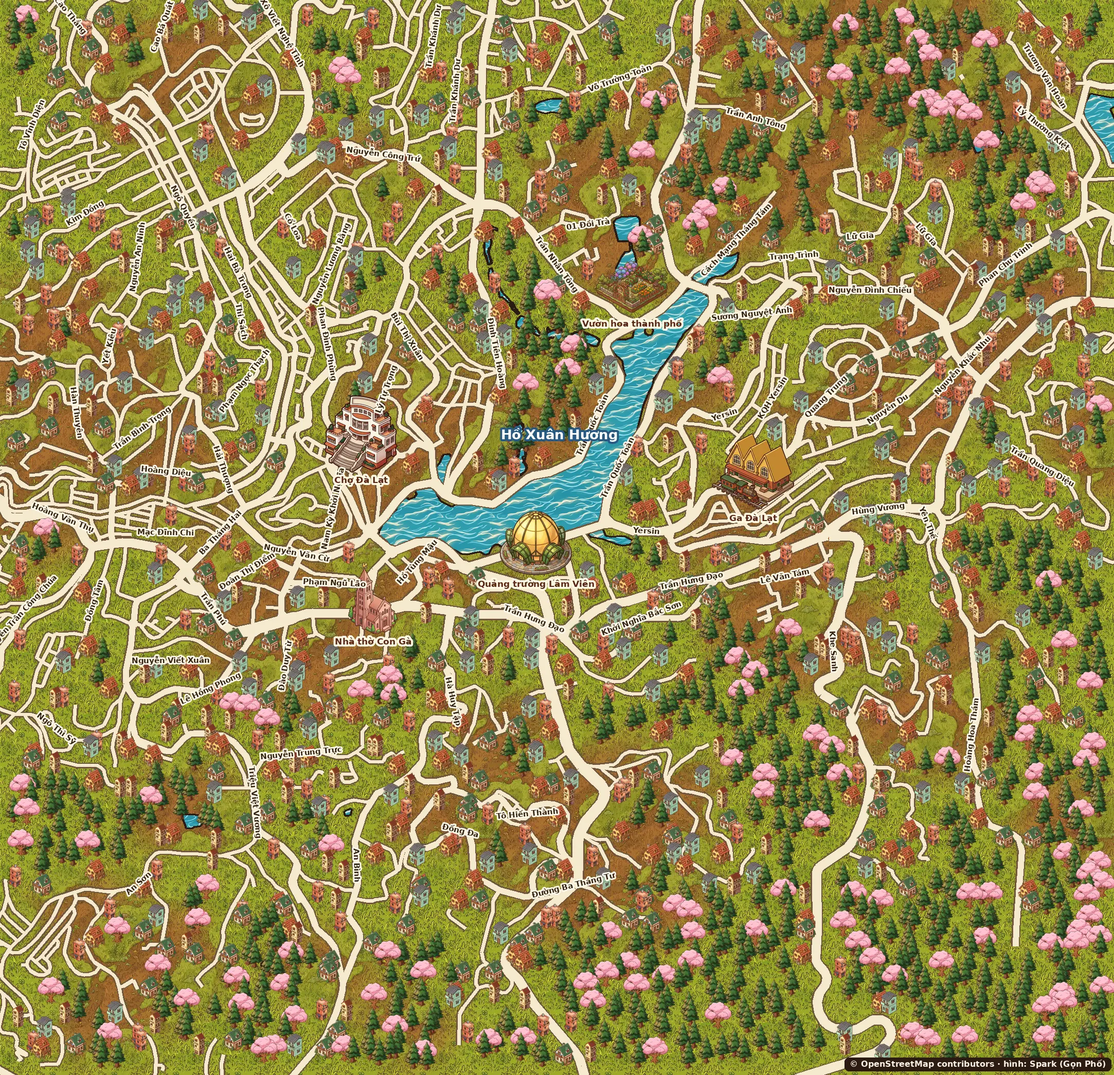
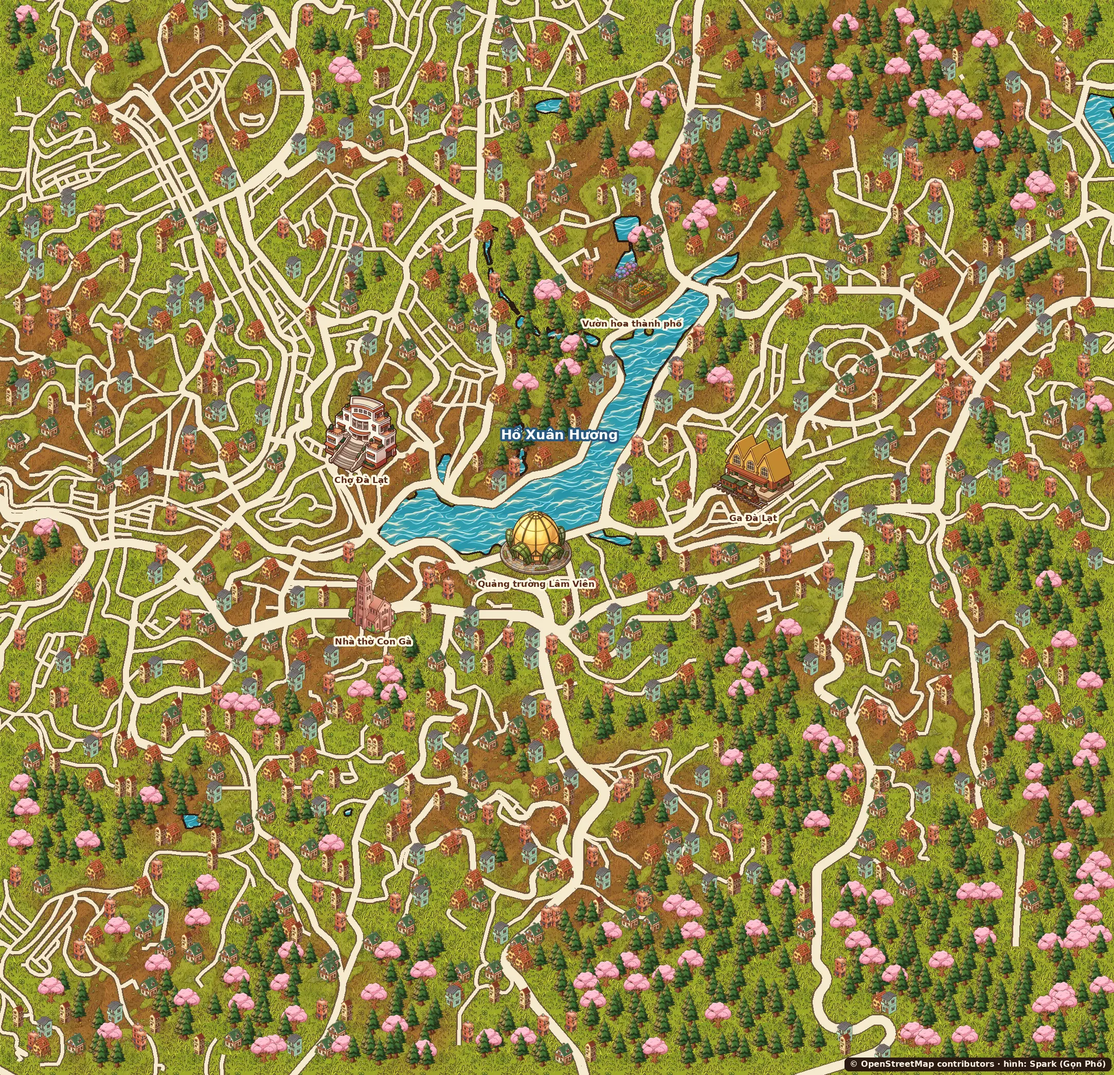
Tên đường chạy uốn theo đường, làm mềm; chữ không đè nhau; chấm quán dày thì tách ra có nét nối
- Bỏ tên đường in cứng trong ảnh nền; trang phố tự ghi tên bằng textPath trên đoạn đường đã làm mềm
- Đường cong gắt không ghi tên; tên mốc trùng hình vẽ sẵn thì bỏ
- Phố ngắn (Tăng Bạt Hổ) phóng gần hơn, chấm quán đè nhau được đẩy ra

Claude-Session: https://claude.ai/code/session_01X21C3vW6w9QSrPJtoigw6e

diff --git a/app.js b/app.js
@@ -103,6 +103,33 @@
     return d;
   }
 
+  // Làm mềm đường (Chaikin 2 lượt) cho chữ chạy uốn êm theo đường, không gãy khúc
+  function smooth(pts, n) {
+    var p = pts;
+    for (var t = 0; t < (n || 2); t++) {
+      if (p.length < 3) return p;
+      var q = [p[0]];
+      for (var i = 0; i < p.length - 1; i++) {
+        var a = p[i], b = p[i + 1];
+        q.push([a[0] * 0.75 + b[0] * 0.25, a[1] * 0.75 + b[1] * 0.25], [a[0] * 0.25 + b[0] * 0.75, a[1] * 0.25 + b[1] * 0.75]);
+      }
+      q.push(p[p.length - 1]);
+      p = q;
+    }
+    return p;
+  }
+  // Độ gắt khúc cong lớn nhất (độ) trên đoạn giữa đường — cong quá thì không ghi tên
+  function maxTurn(pts) {
+    var m = 0;
+    for (var i = 1; i < pts.length - 1; i++) {
+      var a1 = Math.atan2(pts[i][1] - pts[i - 1][1], pts[i][0] - pts[i - 1][0]);
+      var a2 = Math.atan2(pts[i + 1][1] - pts[i][1], pts[i + 1][0] - pts[i][0]);
+      var d = Math.abs(a2 - a1) * 180 / Math.PI; if (d > 180) d = 360 - d;
+      m = Math.max(m, d);
+    }
+    return m;
+  }
+
   function meters(pts) {
     var m = 0;
     for (var k = 1; k < pts.length; k++) {
@@ -213,11 +240,13 @@
     (data.ten_duong || []).forEach(function (r, i) {
       if (meters(r.pts) < minLen[r.loai]) return;
       var id = 'rd' + i;
-      var pe0 = el('path', { id: id, d: lineOf(r.pts) });
+      var sm = smooth(r.pts, 3);
+      if (maxTurn(smooth(r.pts, 1)) > 50) return;          // đường gãy gắt: bỏ tên cho khỏi rối
+      var pe0 = el('path', { id: id, d: lineOf(sm) });
       defs.appendChild(pe0);
       var L0 = pe0.getTotalLength();
       if (pe0.getPointAtLength(L0 * 0.6).x < pe0.getPointAtLength(L0 * 0.4).x) {
-        pe0.setAttribute('d', lineOf(r.pts.slice().reverse()));  // chữ chạy trái sang phải, không lộn ngược
+        pe0.setAttribute('d', lineOf(sm.slice().reverse()));  // chữ chạy trái sang phải, không lộn ngược
       }
       var t = el('text', { 'class': 'lbl road-name r' + r.loai, dy: '0.35em', hidden: '' });
       var tp = el('textPath', { href: '#' + id, startOffset: '50%' }, r.ten);
@@ -610,7 +639,7 @@
         x0 = Math.min(x0, nb[0]); x1 = Math.max(x1, nb[0]); y0 = Math.min(y0, nb[1] - 40); y1 = Math.max(y1, nb[1] + 30);
       }
       // khung đủ rộng để thấy cả xóm xung quanh (≥ 1,3 km ngang), không quá cao so với bề ngang
-      var pad = 80, w = Math.max(x1 - x0 + pad * 2, 520), h = Math.max(y1 - y0 + pad * 2, w * 1.1);
+      var pad = 80, w = Math.max(x1 - x0 + pad * 2, 300), h = Math.max(y1 - y0 + pad * 2, w * 1.1);
       w = Math.max(w, h * 0.78);
       cx = (x0 + x1) / 2; cy = (y0 + y1) / 2;
       var vx = Math.max(0, Math.min(bd.w - w, cx - w / 2)), vy = Math.max(0, Math.min(bd.h - h, cy - h / 2));
@@ -620,6 +649,12 @@
         '<image href="' + esc(bd.anh) + '" width="' + bd.w + '" height="' + bd.h + '"/>';
       lines.forEach(function (l) { g += '<path d="' + path(l) + '" class="bd-pho-vien" style="stroke-width:' + (16 * k) + '"/>'; });
       lines.forEach(function (l) { g += '<path d="' + path(l) + '" class="bd-pho" style="stroke-width:' + (8 * k) + '"/>'; });
+      var boxes = [];
+      function hit(b) { return boxes.some(function (o) { return b.x1 > o.x0 && b.x0 < o.x1 && b.y1 > o.y0 && b.y0 < o.y1; }); }
+      // hình mốc vẽ sẵn trong ảnh (Chợ, nhà thờ, quảng trường…) và tên của nó chiếm chỗ trước
+      bd.moc.forEach(function (m) { var q = B(m.lon, m.lat); boxes.push({ x0: q[0] - 85, x1: q[0] + 85, y0: q[1] - 115, y1: q[1] + 60 }); });
+      // chấm quán chiếm chỗ trước
+      ph.dia_diem.forEach(function (d) { if (d.vi_tri) { var q = B(d.vi_tri.lon, d.vi_tri.lat); boxes.push({ x0: q[0] - 13 * k, x1: q[0] + 13 * k, y0: q[1] - 13 * k, y1: q[1] + 13 * k }); } });
       // tên mốc thật trong khung (chùa, chợ, dinh, công viên…) để định hướng; tối đa 4 mốc gần phố nhất
       var tenQuan = ph.dia_diem.map(function (d) { return d.ten; }).join('|');
       data.moc.map(function (m) { return { m: m, p: B(m.lon, m.lat) }; })
@@ -628,16 +663,78 @@
         .filter(function (o) {      // bỏ mốc trùng chỗ một quán đã có chấm (vd Dinh III)
           return !ph.dia_diem.some(function (d) { if (!d.vi_tri) return false; var q = B(d.vi_tri.lon, d.vi_tri.lat); return Math.hypot(q[0] - o.p[0], q[1] - o.p[1]) < 25 * k; });
         })
-        .slice(0, 4).forEach(function (o) {
+        .filter(function (o) {      // trùng tên mốc đã vẽ sẵn (vd "Chợ Đà Lạt") thì bỏ
+          return !bd.moc.some(function (m) { return o.m.ten.indexOf(m.ten) >= 0 || m.ten.indexOf(o.m.ten) >= 0; });
+        })
+        .filter(function (o) {      // tên mốc không đè chấm quán, không đè tên mốc khác
+          var tw = o.m.ten.length * 12 * k * 0.56, phai = o.p[0] > vx + w * 0.6;
+          var b = { x0: phai ? o.p[0] - tw - 8 * k : o.p[0] - 5 * k, x1: phai ? o.p[0] + 5 * k : o.p[0] + tw + 8 * k, y0: o.p[1] - 9 * k, y1: o.p[1] + 9 * k };
+          if (hit(b)) return false;
+          boxes.push(b); return true;
+        })
+        .slice(0, 3).forEach(function (o) {
           var phai = o.p[0] > vx + w * 0.6;     // gần mép phải thì viết chữ sang trái
           g += '<circle cx="' + o.p[0].toFixed(1) + '" cy="' + o.p[1].toFixed(1) + '" r="' + (4 * k) + '" class="bd-moc-cham"/>' +
             '<text x="' + (o.p[0] + (phai ? -7 : 7) * k).toFixed(1) + '" y="' + o.p[1].toFixed(1) + '" class="bd-moc" text-anchor="' + (phai ? 'end' : 'start') + '" style="font-size:' + (12 * k) + 'px;stroke-width:' + (4 * k) + 'px">' + esc(o.m.ten) + '</text>';
         });
+      // tên đường chạy uốn theo đường (textPath), chỉ đường đủ dài, không quá cong, không đè nhau
+      var fsz = 12 * k, defs = '', txt = '';
+      (data.ten_duong || []).slice().sort(function (a, b) { return a.loai - b.loai; }).forEach(function (r, ri) {
+        if (r.loai > 4 || /^(Hẻm|Bùng binh|Công trường)/.test(r.ten) || ph.duong.indexOf(r.ten) >= 0) return;   // tên phố đã ghi ở đầu trang
+        var q = r.pts.map(function (z) { return B(z[0], z[1]); });
+        var inside = q.filter(function (z) { return z[0] > vx + 10 && z[0] < vx + w - 10 && z[1] > vy + 10 && z[1] < vy + h - 10; });
+        if (inside.length < 2) return;
+        // cắt đoạn nằm trong khung, làm mềm
+        var seg = [], best = [];
+        q.forEach(function (z) {
+          var ok = z[0] > vx && z[0] < vx + w && z[1] > vy && z[1] < vy + h;
+          if (ok) seg.push(z); else { if (seg.length > best.length) best = seg; seg = []; }
+        });
+        if (seg.length > best.length) best = seg;
+        if (best.length < 2) return;
+        var sm = smooth(best, 3);
+        if (maxTurn(smooth(best, 1)) > 45) return;
+        var L = 0; for (var i = 1; i < sm.length; i++) L += Math.hypot(sm[i][0] - sm[i - 1][0], sm[i][1] - sm[i - 1][1]);
+        var tw = r.ten.length * fsz * 0.56;
+        if (tw > L * 0.8) return;
+        // giữa đoạn
+        var acc = 0, mid = sm[0];
+        for (var j = 1; j < sm.length; j++) { var dl = Math.hypot(sm[j][0] - sm[j - 1][0], sm[j][1] - sm[j - 1][1]); if (acc + dl >= L / 2) { mid = sm[j]; break; } acc += dl; }
+        // khung chữ theo hướng thật của đoạn giữa (không phải hình vuông) để khỏi bỏ sót nhiều tên
+        var ang = Math.atan2(sm[Math.min(sm.length - 1, j + 1)][1] - sm[Math.max(0, j - 1)][1], sm[Math.min(sm.length - 1, j + 1)][0] - sm[Math.max(0, j - 1)][0]);
+        var hx = Math.abs(Math.cos(ang)) * tw / 2 + fsz * 0.6, hy = Math.abs(Math.sin(ang)) * tw / 2 + fsz * 0.6;
+        var bx = { x0: mid[0] - hx, x1: mid[0] + hx, y0: mid[1] - hy, y1: mid[1] + hy };
+        if (hit(bx)) return;
+        boxes.push(bx);
+        if (sm[sm.length - 1][0] < sm[0][0]) sm = sm.slice().reverse();
+        var id = 'bdr' + ri;
+        defs += '<path id="' + id + '" d="' + path(sm) + '"/>';
+        txt += '<text class="bd-ten-duong" style="font-size:' + fsz + 'px;stroke-width:' + (3.5 * k) + 'px" dy="0.35em"><textPath href="#' + id + '" startOffset="50%">' + esc(r.ten) + '</textPath></text>';
+      });
+      g += '<defs>' + defs + '</defs>' + txt;
+      // chấm quán: chấm nào đè nhau thì đẩy dần ra cho tách hẳn, kèm nét nối về đúng chỗ quán
+      var dots = [];
+      ph.dia_diem.forEach(function (d, i) { if (d.vi_tri) { var q = B(d.vi_tri.lon, d.vi_tri.lat); dots.push({ i: i, ox: q[0], oy: q[1], x: q[0], y: q[1] }); } });
+      var R = 12 * k;
+      for (var it = 0; it < 120; it++) {
+        var moved = false;
+        for (var a1 = 0; a1 < dots.length; a1++) for (var b1 = a1 + 1; b1 < dots.length; b1++) {
+          var A = dots[a1], Bd = dots[b1], dx = Bd.x - A.x, dy = Bd.y - A.y, dd = Math.hypot(dx, dy);
+          if (dd < R * 2.15) {
+            if (dd < 0.01) { dx = Math.cos(b1); dy = Math.sin(b1); dd = 1; }
+            var push = (R * 2.15 - dd) / 2;
+            A.x -= dx / dd * push; A.y -= dy / dd * push; Bd.x += dx / dd * push; Bd.y += dy / dd * push; moved = true;
+          }
+        }
+        if (!moved) break;
+      }
+      var dotAt = {};
+      dots.forEach(function (o) { dotAt[o.i] = o; if (Math.hypot(o.x - o.ox, o.y - o.oy) > 3 * k) g += '<line x1="' + o.ox.toFixed(1) + '" y1="' + o.oy.toFixed(1) + '" x2="' + o.x.toFixed(1) + '" y2="' + o.y.toFixed(1) + '" class="bd-noi" style="stroke-width:' + (1.6 * k) + '"/><circle cx="' + o.ox.toFixed(1) + '" cy="' + o.oy.toFixed(1) + '" r="' + (2.5 * k) + '" class="bd-goc"/>'; });
       var so = 0;
       ph.dia_diem.forEach(function (d, i) {
         if (!d.vi_tri) return;
         so++;
-        var p = B(d.vi_tri.lon, d.vi_tri.lat), r = 11 * k;
+        var p = [dotAt[i].x, dotAt[i].y], r = 11 * k;
         g += '<g class="bd-cham" data-q="' + i + '" tabindex="0" role="button" aria-label="' + so + '. ' + esc(d.ten) + '">' +
           '<circle cx="' + p[0].toFixed(1) + '" cy="' + p[1].toFixed(1) + '" r="' + r + '" class="' + (d.vi_tri.uoc ? 'uoc' : '') + '" style="stroke-width:' + (2.5 * k) + '"/>' +
           '<text x="' + p[0].toFixed(1) + '" y="' + p[1].toFixed(1) + '" style="font-size:' + (12 * k) + 'px">' + so + '</text></g>';

diff --git a/style.css b/style.css
@@ -152,8 +152,11 @@ button:focus-visible { outline: 3px solid var(--pick); outline-offset: 2px; }
 /* bản đồ phố minh hoạ */
 .bd-pho-vien { fill: none; stroke: #8a2f2c; stroke-opacity: .55; stroke-linecap: round; stroke-linejoin: round; }
 .bd-pho { fill: none; stroke: #ff9d2e; stroke-linecap: round; stroke-linejoin: round; }
+.bd-ten-duong { font-family: var(--f-body); font-weight: 700; fill: #3a2616; paint-order: stroke; stroke: #fff8e4; stroke-linejoin: round; text-anchor: middle; }
 .bd-moc { font-family: var(--f-body); font-weight: 700; fill: #5a2a14; paint-order: stroke; stroke: #fff6e3; stroke-linejoin: round; dominant-baseline: central; }
 .bd-moc-cham { fill: #5a2a14; stroke: #fff6e3; stroke-width: 2; }
+.bd-noi { stroke: #8a2f2c; stroke-opacity: .8; }
+.bd-goc { fill: #8a2f2c; }
 .bd-cham { cursor: pointer; }
 .bd-cham circle { fill: #d9534f; stroke: #fffaf0; }
 .bd-cham circle.uoc { fill: #e58a86; stroke-dasharray: 3 2; }

diff --git a/tools/ve_ban_do_dalat.py b/tools/ve_ban_do_dalat.py
@@ -154,32 +154,7 @@ def main(game):
     road_font = ImageFont.truetype(FONT, 15)
     big = ImageFont.truetype(FONT, 26)
     mid_font = ImageFont.truetype(FONT, 17)
-    labels = [P(lo, la) for _, la, lo, _ in LANDMARKS]
-    for r in sorted(duong['ten_duong'], key=lambda r: r['loai']):
-        if r['loai'] > 4 or r['ten'].startswith(('Hẻm', 'Bùng binh', 'Công trường')):
-            continue
-        q = [P(*p) for p in r['pts']]
-        dens = []
-        for u, v in zip(q, q[1:]):
-            n_ = max(1, int(math.hypot(v[0] - u[0], v[1] - u[1]) / 4))
-            dens += [(u[0] + (v[0] - u[0]) * i / n_, u[1] + (v[1] - u[1]) * i / n_) for i in range(n_)]
-        if len(dens) < 40:
-            continue
-        mid = len(dens) // 2
-        mx, my = dens[mid]
-        a = dens[max(0, mid - 11)]; b = dens[min(len(dens) - 1, mid + 11)]
-        if not (30 < mx < W - 30 and 30 < my < H - 30) or any(math.hypot(mx - x, my - y) < 90 for x, y in labels):
-            continue
-        tw = int(d.textlength(r['ten'], font=road_font)) + 12
-        if tw > len(dens) * 4 * 1.1:
-            continue
-        t = Image.new('RGBA', (tw, 26), (0, 0, 0, 0))
-        ImageDraw.Draw(t).text((6, 3), r['ten'], font=road_font, fill=(58, 38, 22), stroke_width=3, stroke_fill=(255, 248, 228))
-        ang = math.degrees(math.atan2(b[1] - a[1], b[0] - a[0]))
-        ang = ang - 180 if ang > 90 else ang + 180 if ang < -90 else ang
-        t = t.rotate(-ang, expand=True, resample=Image.BICUBIC)
-        im.alpha_composite(t, (int(mx - t.width / 2), int(my - t.height / 2)))
-        labels.append((mx, my))
+    # Tên đường KHÔNG in vào ảnh: trang web tự ghi tên chạy uốn theo đường (anh Kha: chữ phải ôm theo con đường)
     d = ImageDraw.Draw(im)
     for name, la, lo, size in LANDMARKS:
         x, y = P(lo, la)

diff --git a/CLAUDE.md b/CLAUDE.md
@@ -58,6 +58,7 @@ python3 tools/lich_trinh.py /tmp/osm
 ## Anh Kha đã chốt (25/11/2026)
 - Trang phố vẽ trên **bản đồ minh hoạ nét Spark, hướng Bắc ở trên, đúng tỉ lệ, có mốc quen** (Chợ, hồ, nhà thờ). Không xoay đường, không sơ đồ trừu tượng — người Đà Lạt nhìn phải nhận ra ngay.
 - Đường trên bản đồ không bao giờ cụt giữa khung.
+- Tên đường phải chạy uốn theo con đường (textPath, làm mềm Chaikin), đường cong gắt thì bỏ tên; tên không đè nhau, không đè mốc, không đè chấm quán. Không in tên đường cứng vào ảnh nền.
 - Làm: lịch trình theo phố, chuyện của phố. Không làm: người dùng xác nhận/đánh giá.
 - Nghiên cứu, thêm phố thì cứ làm, không hỏi; chỉ hỏi khi đưa lên mạng/tốn tiền.
 
